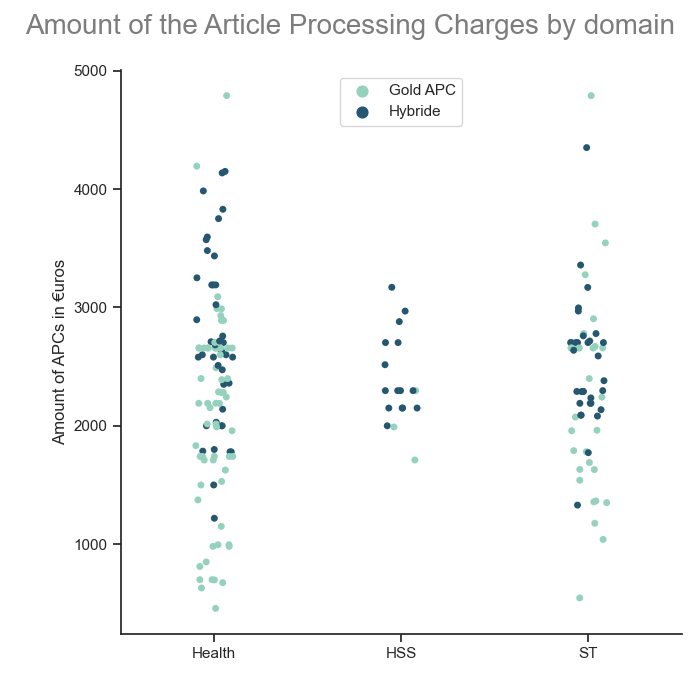
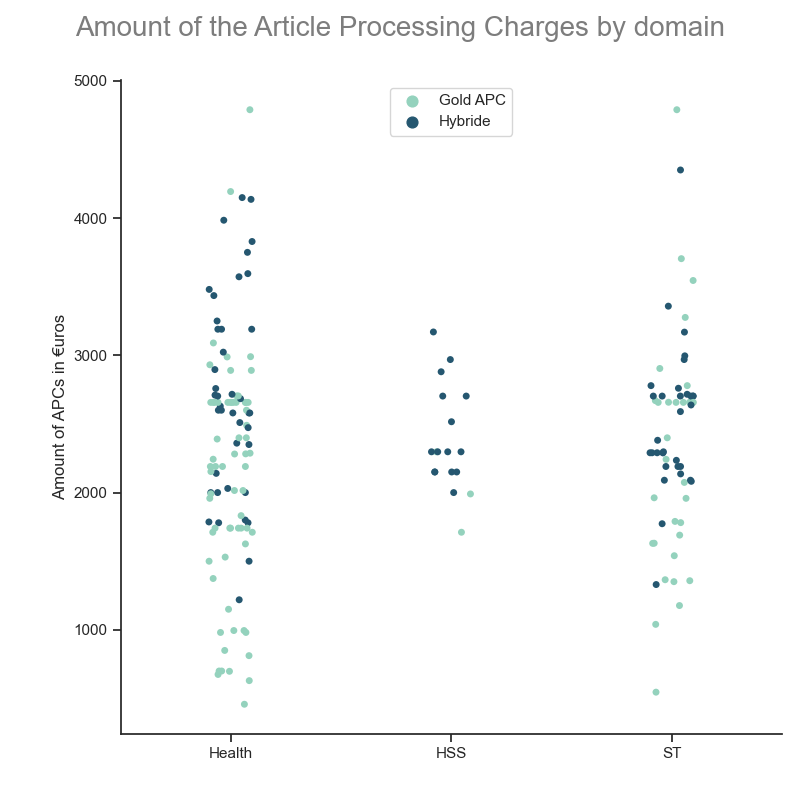
update 3 journals data

diff --git a/produce-img/draw_publisher.py b/produce-img/draw_publisher.py
@@ -2,7 +2,7 @@ import pandas as pd, matplotlib, matplotlib.pyplot  as plt
 import my_functions
 
 
-df_raw = pd.read_csv("2022-02-carto-activite-editoriale-univ-paris-cite-data.csv")
+df_raw = pd.read_csv("../2023-01-upcite-editorial-activities-data.csv")
 print(df_raw.shape)
 
 
@@ -27,7 +27,7 @@ df.loc[:, "pub_2"]= df["pub_2"].str.strip()
 df_publisher = df["pub_1"].value_counts().rename_axis('publishers').reset_index(name='counts')
 
 ## ______0______ produire graphique
-fig, (ax) = plt.subplots(figsize=(10, 7), dpi=100, facecolor='w', edgecolor='k')
+fig, (ax) = plt.subplots(figsize=(15, 11), dpi=100, facecolor='w', edgecolor='k')
 ax.bar(df_publisher.publishers, df_publisher.counts, color = "#2272b4")
 
 

diff --git a/produce-img/draw_apc.py b/produce-img/draw_apc.py
@@ -8,7 +8,7 @@ sns.set_theme(style = "ticks", color_codes = True)
 tips = sns.load_dataset("tips")
 #print(type(sns))
 
-df_raw = pd.read_csv("2022-02-carto-activite-editoriale-univ-paris-cite-data.csv")
+df_raw = pd.read_csv("../2023-01-upcite-editorial-activities-data.csv")
 
 
 # ______0______ selection du corpus
@@ -35,7 +35,7 @@ df.replace("Delayed OA", np.nan, inplace = True)
 rel = sns.catplot(x = "main_subject", 
     y = "APC \nmontant\n€", 
     hue="model_eco",
-    height = 7,
+    height = 8,
     data = df, 
     legend = False,
     palette = sns.color_palette(['#94D2BD', '#255770'])

diff --git a/produce-img/draw_journal_adaptation_to_oa.py b/produce-img/draw_journal_adaptation_to_oa.py
@@ -2,7 +2,7 @@ import pandas as pd, numpy as np
 import matplotlib, matplotlib.pyplot  as plt
 import my_functions
 
-df_raw = pd.read_csv("2022-02-carto-activite-editoriale-univ-paris-cite-data.csv")
+df_raw = pd.read_csv("../2023-01-upcite-editorial-activities-data.csv")
 
 
 # ______0______ selection du corpus
@@ -40,7 +40,7 @@ print(df_fields)
 
 ax = df_fields.plot(
     kind = "bar", 
-    figsize = (10, 7),
+    figsize = (12, 9),
     stacked = True,
     color = ["#023047", "#255770", "#0A9396", "#94D2BD", "#E9D8A6", "#EE9B00" ], 
     rot = -0,

diff --git a/produce-img/draw_journal_and_activities_by_domain.py b/produce-img/draw_journal_and_activities_by_domain.py
@@ -2,7 +2,7 @@ import pandas as pd, numpy as np
 import matplotlib, matplotlib.pyplot  as plt
 import my_functions
 
-df_raw = pd.read_csv("2022-02-carto-activite-editoriale-univ-paris-cite-data.csv")
+df_raw = pd.read_csv("../2023-01-upcite-editorial-activities-data.csv")
 print(df_raw.columns, df_raw.shape)
 
 print("\n\n\n", df_raw["Autres liens\navec UPC"].value_counts())

diff --git a/produce-img/draw_society_per_domain.py b/produce-img/draw_society_per_domain.py
@@ -2,7 +2,7 @@ import pandas as pd, numpy as np
 import matplotlib, matplotlib.pyplot  as plt
 import my_functions
 
-df_raw = pd.read_csv("2022-02-carto-activite-editoriale-univ-paris-cite-data.csv")
+df_raw = pd.read_csv("../2023-01-upcite-editorial-activities-data.csv")
 
 # ________________0____________ selection du corpus
 

diff --git a/produce-img/graph_org_sci/construct-database.py b/produce-img/graph_org_sci/construct-database.py
@@ -1,7 +1,7 @@
 import pandas as pd, numpy as np
 
 
-df_raw = pd.read_csv("../2022-02-carto-activite-editoriale-univ-paris-cite-data.csv")
+df_raw = pd.read_csv("../../2023-01-upcite-editorial-activities-data.csv")
 
 
 # ______0______ selection du corpus

diff --git a/readme.md b/readme.md
@@ -1,15 +1,15 @@
 # Editorial activities at Université Paris Cité in 2022
 
 
-In the context of a new publishing platform (opus.u-paris.fr), one of the goal was to shed light on the institution's editorial activities, i.e. to answer to the following question _in which journals and for which publishers do researchers carry out editorial activities?_
+In the context of the new publishing platform OPUS [Open Publishing Services](https://opus.u-paris.fr), one of the goal was to shed light on the institution's editorial activities, taht is to answer to the following question _in which journals and for which publishers do researchers carry out editorial activities?_
 
 
 <br />
 <br />
 
-* The method (based on [OpenEditors](https://openeditors.ooir.org/)) and the results are shown online, see [2022-UPCite-editorial-activities](https://ml4rrieu.github.io/slides/2022-UPCite-editorial-activities.html)
+* The method (based on [OpenEditors](https://openeditors.ooir.org/)) and the results are shown online : [2022-UPCite-editorial-activities](https://ml4rrieu.github.io/slides/2022-UPCite-editorial-activities.html)
 
-* See the data [2022-02-upcite-editorial-activities-data.csv](./2022-02-upcite-editorial-activities-data.csv)
+* See the data [2023-01-upcite-editorial-activities-data.csv](./2023-01-upcite-editorial-activities-data.csv)
 
 
 <br />
